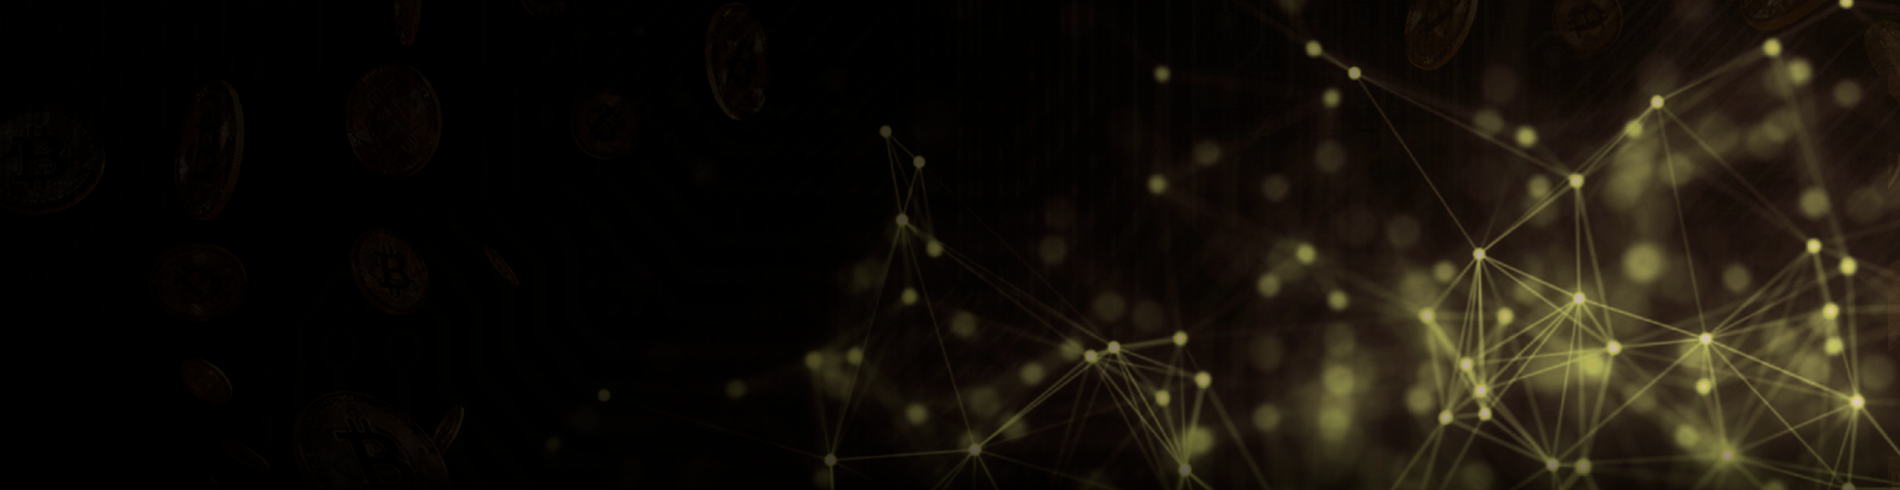
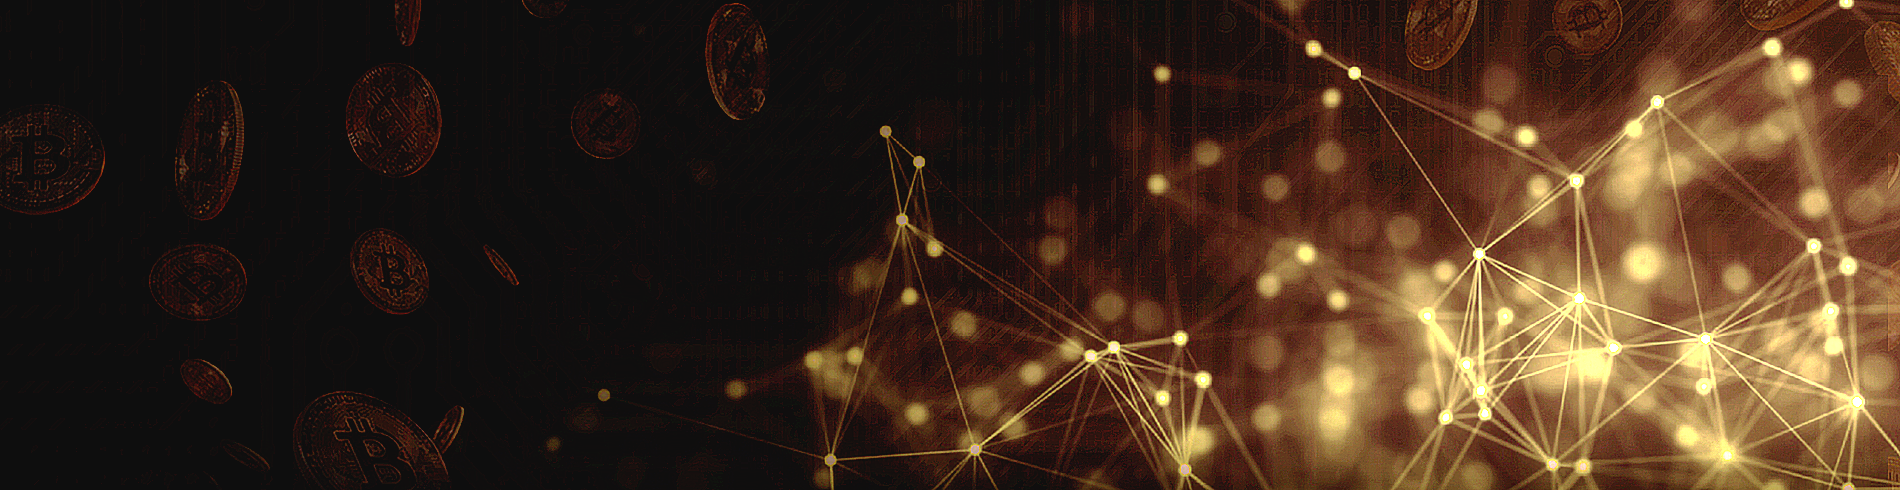
Maquetado previo final

diff --git a/styles/section4.css b/styles/section4.css
@@ -1,8 +1,20 @@
+#sec4container {
+	background: rgb(19, 20, 26);
+	background: -moz-linear-gradient(180deg, rgba(19, 20, 26, 1) 0%, rgba(37, 39, 46, 1) 42%);
+	background: -webkit-linear-gradient(180deg, rgba(19, 20, 26, 1) 0%, rgba(37, 39, 46, 1) 42%);
+	background: linear-gradient(180deg, rgba(19, 20, 26, 1) 0%, rgba(37, 39, 46, 1) 42%);
+	filter: progid:DXImageTransform.Microsoft.gradient(startColorstr="#13141a",endColorstr="#25272e",GradientType=1);
+}
+
 .section4-box {
 	max-width: 595px;
 	border-radius: 20px;
 	margin: 1rem auto 1rem auto;
 	padding: 1rem 1.5rem 0rem 1.5rem;
+	border: 1px solid #3f3f3f;
+	box-shadow: 12px 11px 10px -4px rgba(0, 0, 0, 0.61);
+	-webkit-box-shadow: 12px 11px 10px -4px rgba(0, 0, 0, 0.61);
+	-moz-box-shadow: 12px 11px 10px -4px rgba(0, 0, 0, 0.61);
 }
 
 .section4-box h4 {

diff --git a/componentes/main/Section0.js b/componentes/main/Section0.js
@@ -5,7 +5,7 @@ const Section0 = () => {
 		<div
 			className='section0-conteiner'
 			style={{
-				backgroundImage: `linear-gradient(to  top, rgb(19, 20, 26, 1 ) 0%, rgba(0, 0, 0, 0.1)), url('${URL_IMAGE}/pics/bn_top2.png')`,
+				backgroundImage: `linear-gradient(to  top, rgb(19, 20, 26, 1 ) 1%, rgba(0, 0, 0, 0.1)), url('${URL_IMAGE}/pics/top4.png')`,
 			}}
 		>
 			<section className='section0-wrap animate__animated animate__fadeInUp'>

diff --git a/styles/section0.css b/styles/section0.css
@@ -2,7 +2,7 @@
 	display: flex;
 	flex-direction: row;
 	width: 100%;
-	height: 30rem;
+	height: 26rem;
 	margin: auto;
 	background-size: cover;
 	background-position: center;
@@ -15,7 +15,7 @@
 	flex-direction: column;
 	text-align: center;
 	height: auto;
-	margin: 6.5rem auto 0 auto;
+	margin: 4rem auto 0 auto;
 	text-shadow: 3px 3px 1px rgb(0, 0, 0);
 	padding: 1rem;
 }

diff --git a/componentes/main/Section4.js b/componentes/main/Section4.js
@@ -5,7 +5,7 @@ import { URL_IMAGE } from '../../config/constants';
 
 const Section4 = () => {
 	return (
-		<div className='main-conteiner main-bggrey'>
+		<div id='sec4container' className='main-conteiner main-bggrey'>
 			<div className='main-wrap section4-wrap'>
 				<h2 className='main-textlight'>¿En que consiste la membresía?</h2>
 
